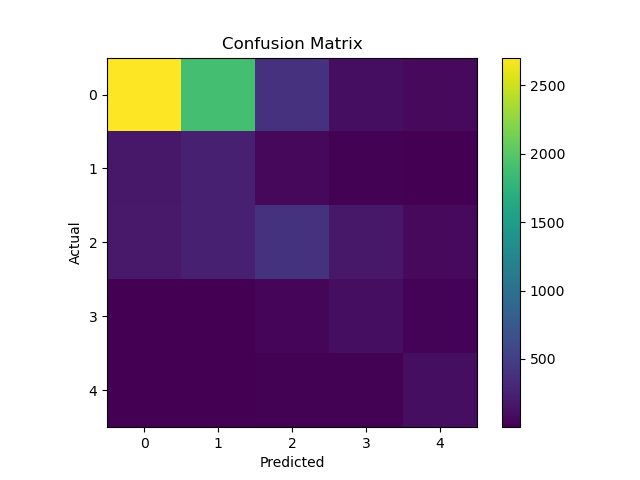
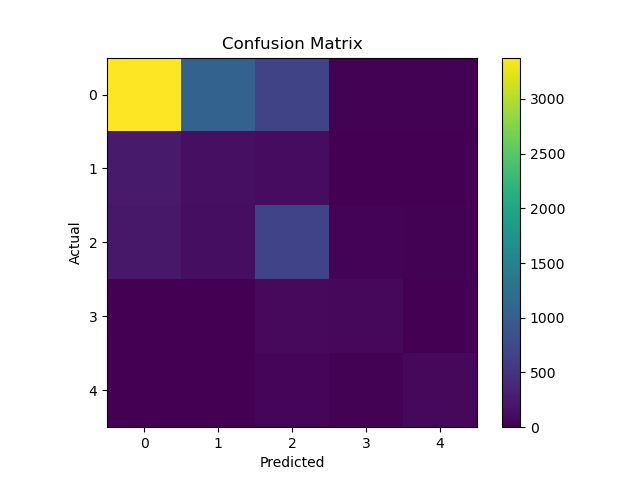
seggregated both the models for full stack model

diff --git a/train_diabetes_resnet.py b/train_diabetes_resnet.py
@@ -1,0 +1,225 @@
+import os
+import torch
+import cudf
+import numpy as np
+import pandas as pd
+import torch.nn as nn
+from PIL import Image
+from tqdm import tqdm
+from torch.utils.data import Dataset, DataLoader
+from torchvision import transforms, models
+from sklearn.model_selection import train_test_split
+from sklearn.metrics import confusion_matrix, classification_report
+from torch.utils.data import WeightedRandomSampler
+from torchvision.models import efficientnet_b0
+import matplotlib.pyplot as plt
+from sklearn.metrics import (
+    accuracy_score,
+    precision_score,
+    recall_score,
+    classification_report,
+    confusion_matrix,
+    cohen_kappa_score
+)
+
+DATA_PATH = "/home/hornet/dataset_folders/retinopathy_dataset2/archive/resized_train/resized_train"
+BATCH_SIZE = 8
+EPOCHS = 15
+NUM_CLASSES = 5
+DEVICE = torch.device("cuda" if torch.cuda.is_available() else "cpu")
+csv_path = "/home/hornet/dataset_folders/retinopathy_dataset2/archive/trainLabels.csv"
+
+df = pd.read_csv(csv_path)
+
+df["image"] = df["image"].apply(
+    lambda x: os.path.join(DATA_PATH, x + ".jpeg")
+)
+
+df.rename(columns={"level": "label"}, inplace=True)
+
+print(df.head())
+print("Total samples:", len(df))
+
+train_df, val_df = train_test_split(df, test_size=0.2, stratify=df["label"])
+
+class RetinoDataset(Dataset):
+    def __init__(self, df, transform=None):
+        self.df = df.reset_index(drop=True)
+        self.transform = transform
+
+    def __len__(self):
+        return len(self.df)
+
+    def __getitem__(self, idx):
+        img_path = self.df.loc[idx, "image"]
+        label = self.df.loc[idx, "label"]
+
+        image = Image.open(img_path).convert("RGB")
+
+        if self.transform:
+            image = self.transform(image)
+
+        return image, label
+
+train_transform = transforms.Compose([
+    transforms.Resize((224, 224)),
+    transforms.RandomHorizontalFlip(),
+    transforms.RandomRotation(10),
+    transforms.ToTensor(),
+])
+
+val_transform = transforms.Compose([
+    transforms.Resize((224, 224)),
+    transforms.ToTensor(),
+])
+
+train_dataset = RetinoDataset(train_df, transform=train_transform)
+val_dataset = RetinoDataset(val_df, transform=val_transform)
+
+labels = train_df["label"].values
+class_sample_count = np.bincount(labels)
+
+#added weight sampler to handle class imbalance
+weights = 1. / class_sample_count
+samples_weight = weights[labels]
+
+sampler = WeightedRandomSampler(samples_weight, len(samples_weight))
+
+train_loader = DataLoader(train_dataset, batch_size=BATCH_SIZE, sampler=sampler, num_workers=2)
+val_loader = DataLoader(val_dataset, batch_size=BATCH_SIZE, shuffle=False, num_workers=2)
+
+model = models.resnet18(pretrained=True) #if using resnet18
+
+#model = efficientnet_b0(pretrained=True)
+
+#model.classifier[1] = nn.Linear(
+    # model.classifier[1].in_features,
+    #NUM_CLASSES
+#)#for efficientnet_b4
+
+#model.fc = nn.Linear(model.fc.in_features, NUM_CLASSES)#for resnet
+model.classifier[1] = nn.Linear(model.classifier[1].in_features, NUM_CLASSES)#for efficientnet
+model = model.to(DEVICE)
+
+class_counts = df["label"].value_counts().sort_index()
+#added weight class
+#weights = 1.0 / class_counts
+#weights = torch.tensor(weights.values, dtype=torch.float).to(DEVICE)
+
+criterion = nn.CrossEntropyLoss()
+optimizer = torch.optim.Adam(model.parameters(), lr=0.0003)
+
+def train():
+    model.train()
+    total_loss = 0
+
+    for images, labels in tqdm(train_loader):
+        images, labels = images.to(DEVICE), labels.to(DEVICE)
+
+        optimizer.zero_grad()
+        outputs = model(images)
+        loss = criterion(outputs, labels)
+
+        loss.backward()
+        optimizer.step()
+
+        total_loss += loss.item()
+
+    return total_loss / len(train_loader)
+
+#updated validate function 
+def validate():
+    model.eval()
+    total_loss = 0
+    correct = 0
+    total = 0
+
+    all_preds = []
+    all_labels = []
+
+    with torch.no_grad():
+        for images, labels in val_loader:
+            images, labels = images.to(DEVICE), labels.to(DEVICE)
+
+            outputs = model(images)
+            loss = criterion(outputs, labels)
+
+            total_loss += loss.item()
+
+            _, preds = torch.max(outputs, 1)
+
+            total += labels.size(0)
+            correct += (preds == labels).sum().item()
+
+            all_preds.extend(preds.cpu().numpy())
+            all_labels.extend(labels.cpu().numpy())
+
+    accuracy = accuracy_score(all_labels, all_preds)
+    precision = precision_score(all_labels, all_preds, average=None)
+    recall = recall_score(all_labels, all_preds, average=None)
+    kappa = cohen_kappa_score(all_labels, all_preds)
+
+    cm = confusion_matrix(all_labels, all_preds)
+    support = cm.sum(axis=1)
+
+    print("\nConfusion Matrix:")
+    print(cm)
+
+    print("\nClassification Report:")
+    print(classification_report(all_labels, all_preds))
+
+    print("\n📊 Additional Metrics:")
+    print("Accuracy:", accuracy)
+    print("Cohen’s Kappa:", kappa)
+    print("Precision per class:", precision)
+    print("Recall per class:", recall)
+    print("Support per class:", support)
+
+    os.makedirs("outputs_resnet", exist_ok=True)
+
+    classes = np.arange(len(precision))
+
+    # 1. Precision vs Recall
+    plt.figure()
+    plt.plot(classes, precision)
+    plt.plot(classes, recall)
+    plt.xlabel("Class")
+    plt.ylabel("Score")
+    plt.title("Precision vs Recall per Class")
+    plt.legend(["Precision", "Recall"])
+    plt.savefig("outputs/precision_vs_recall.png")
+    plt.close()
+
+    # 2. Support
+    plt.figure()
+    plt.plot(classes, support)
+    plt.xlabel("Class")
+    plt.ylabel("Samples")
+    plt.title("Support per Class")
+    plt.savefig("outputs/support.png")
+    plt.close()
+
+    # 3. Confusion Matrix Heatmap
+    plt.figure()
+    plt.imshow(cm)
+    plt.title("Confusion Matrix")
+    plt.xlabel("Predicted")
+    plt.ylabel("Actual")
+    plt.colorbar()
+    plt.savefig("outputs/confusion_matrix.png")
+    plt.close()
+
+    return total_loss / len(val_loader), accuracy * 100
+
+for epoch in range(EPOCHS):
+    train_loss = train()
+    val_loss, val_acc = validate()
+
+    print(f"\nEpoch {epoch+1}")
+    print(f"Train Loss: {train_loss:.4f}")
+    print(f"Val Loss: {val_loss:.4f}")
+    print(f"Val Accuracy: {val_acc:.2f}%")
+
+torch.save(model.state_dict(), "retinopathy_resnet.pth")
+
+print("\nModel saved!")
